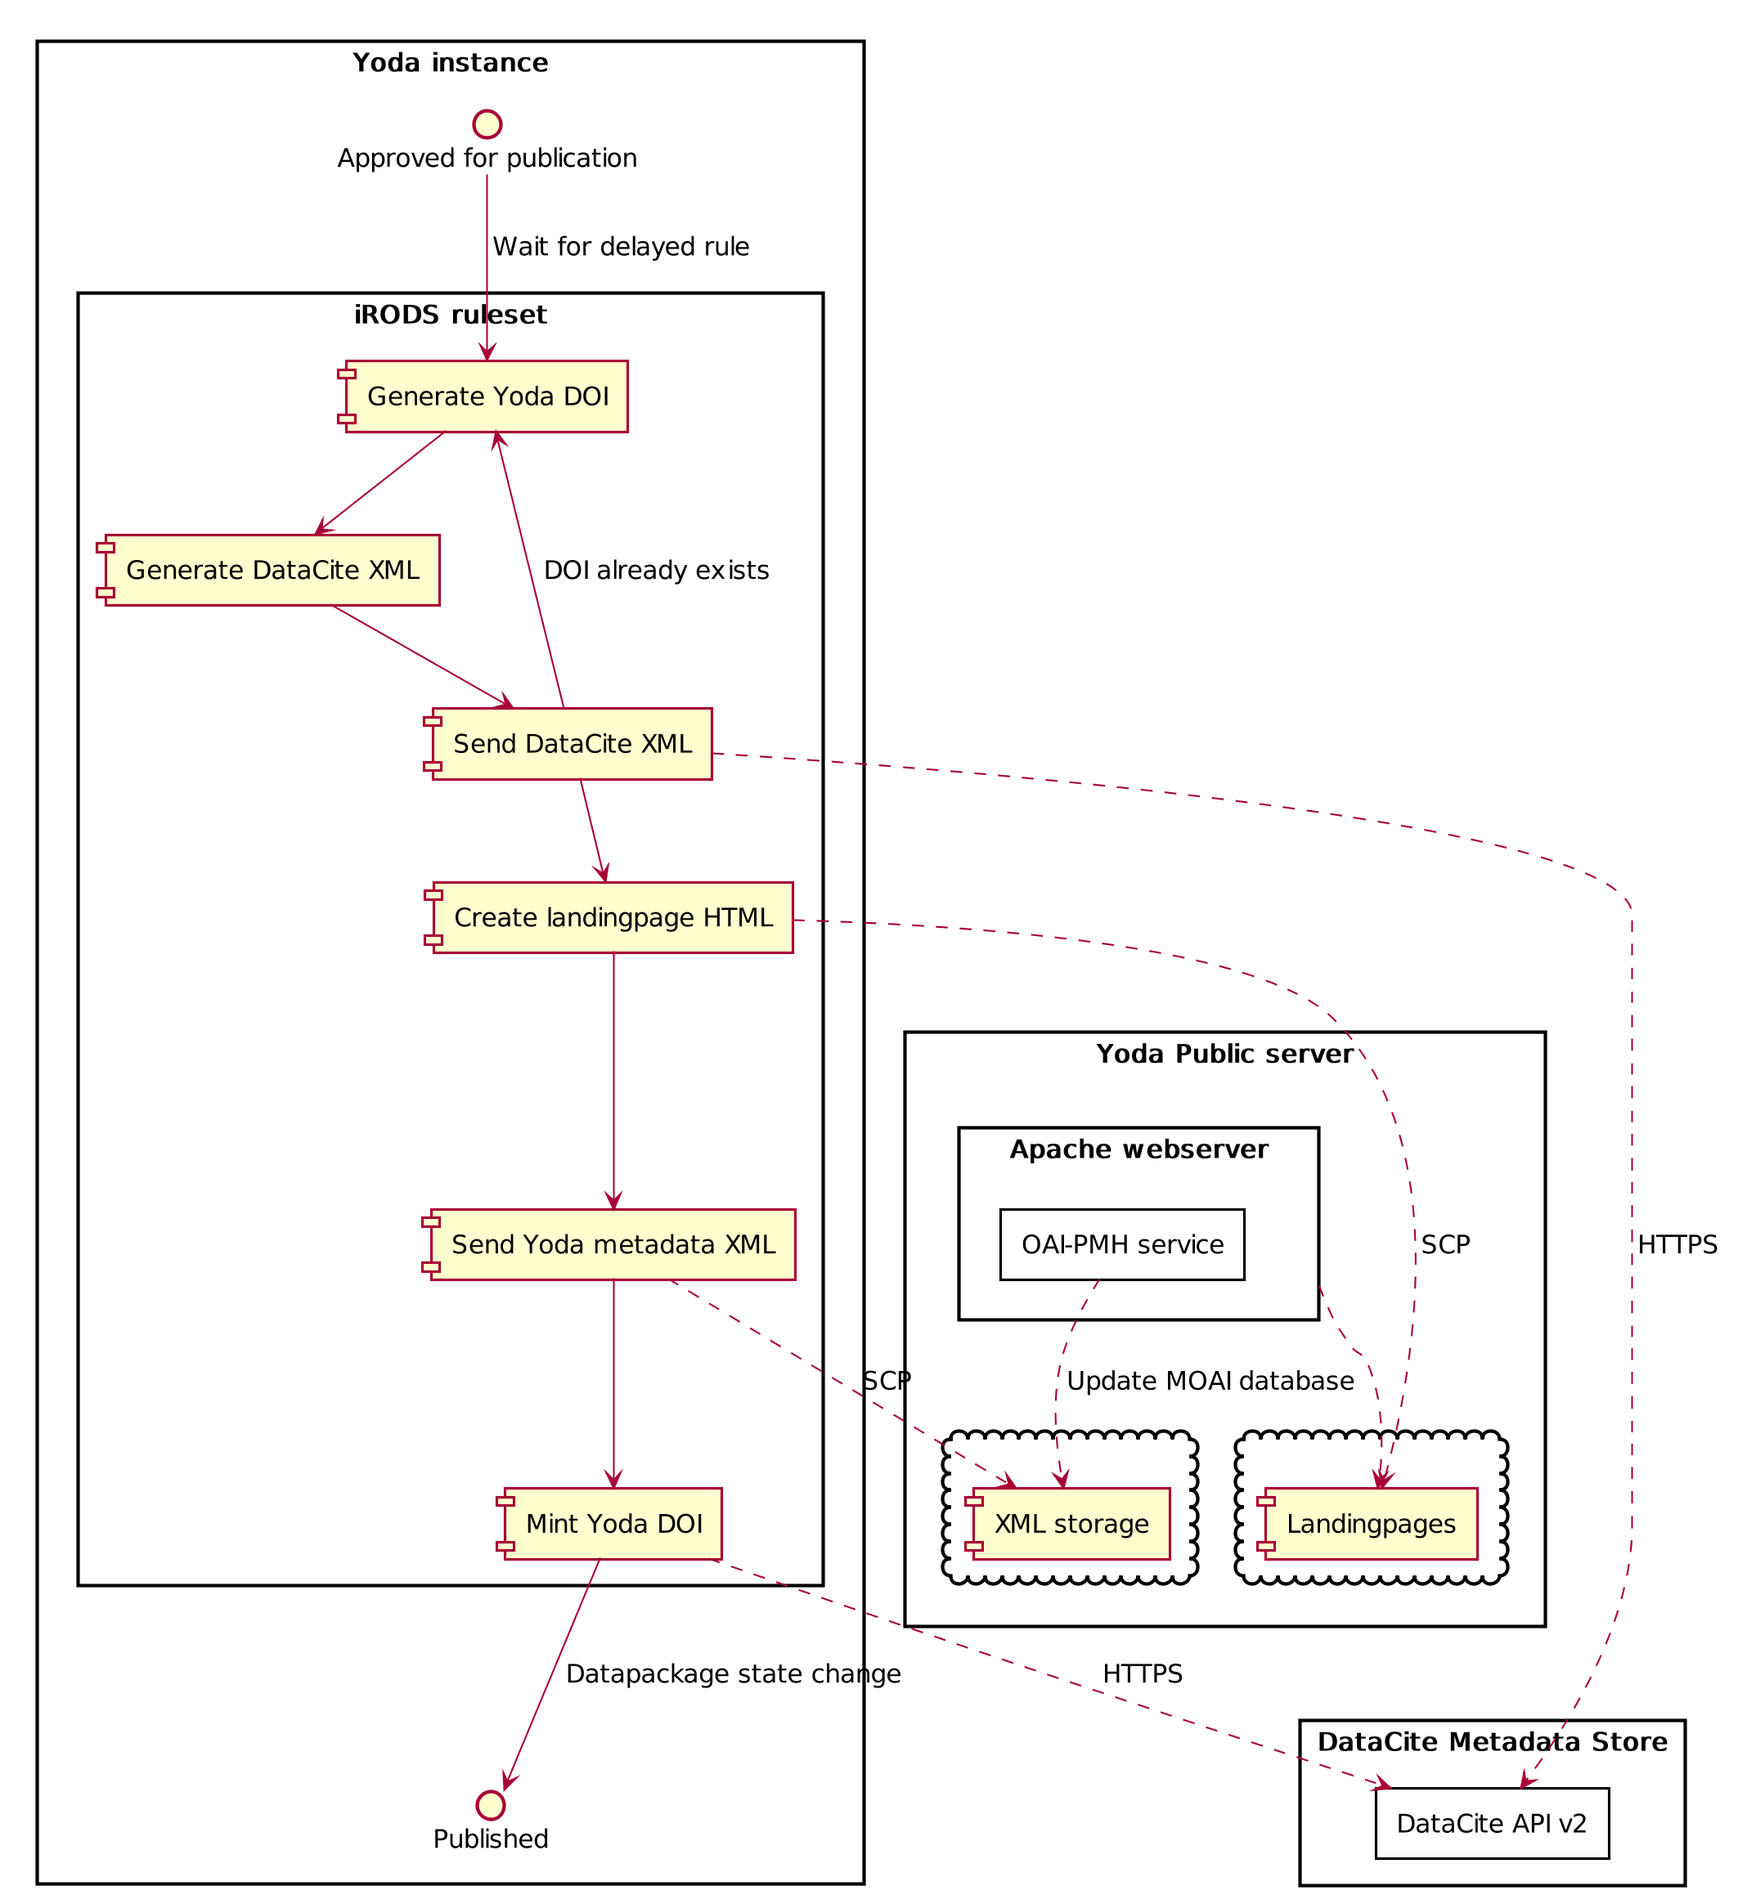
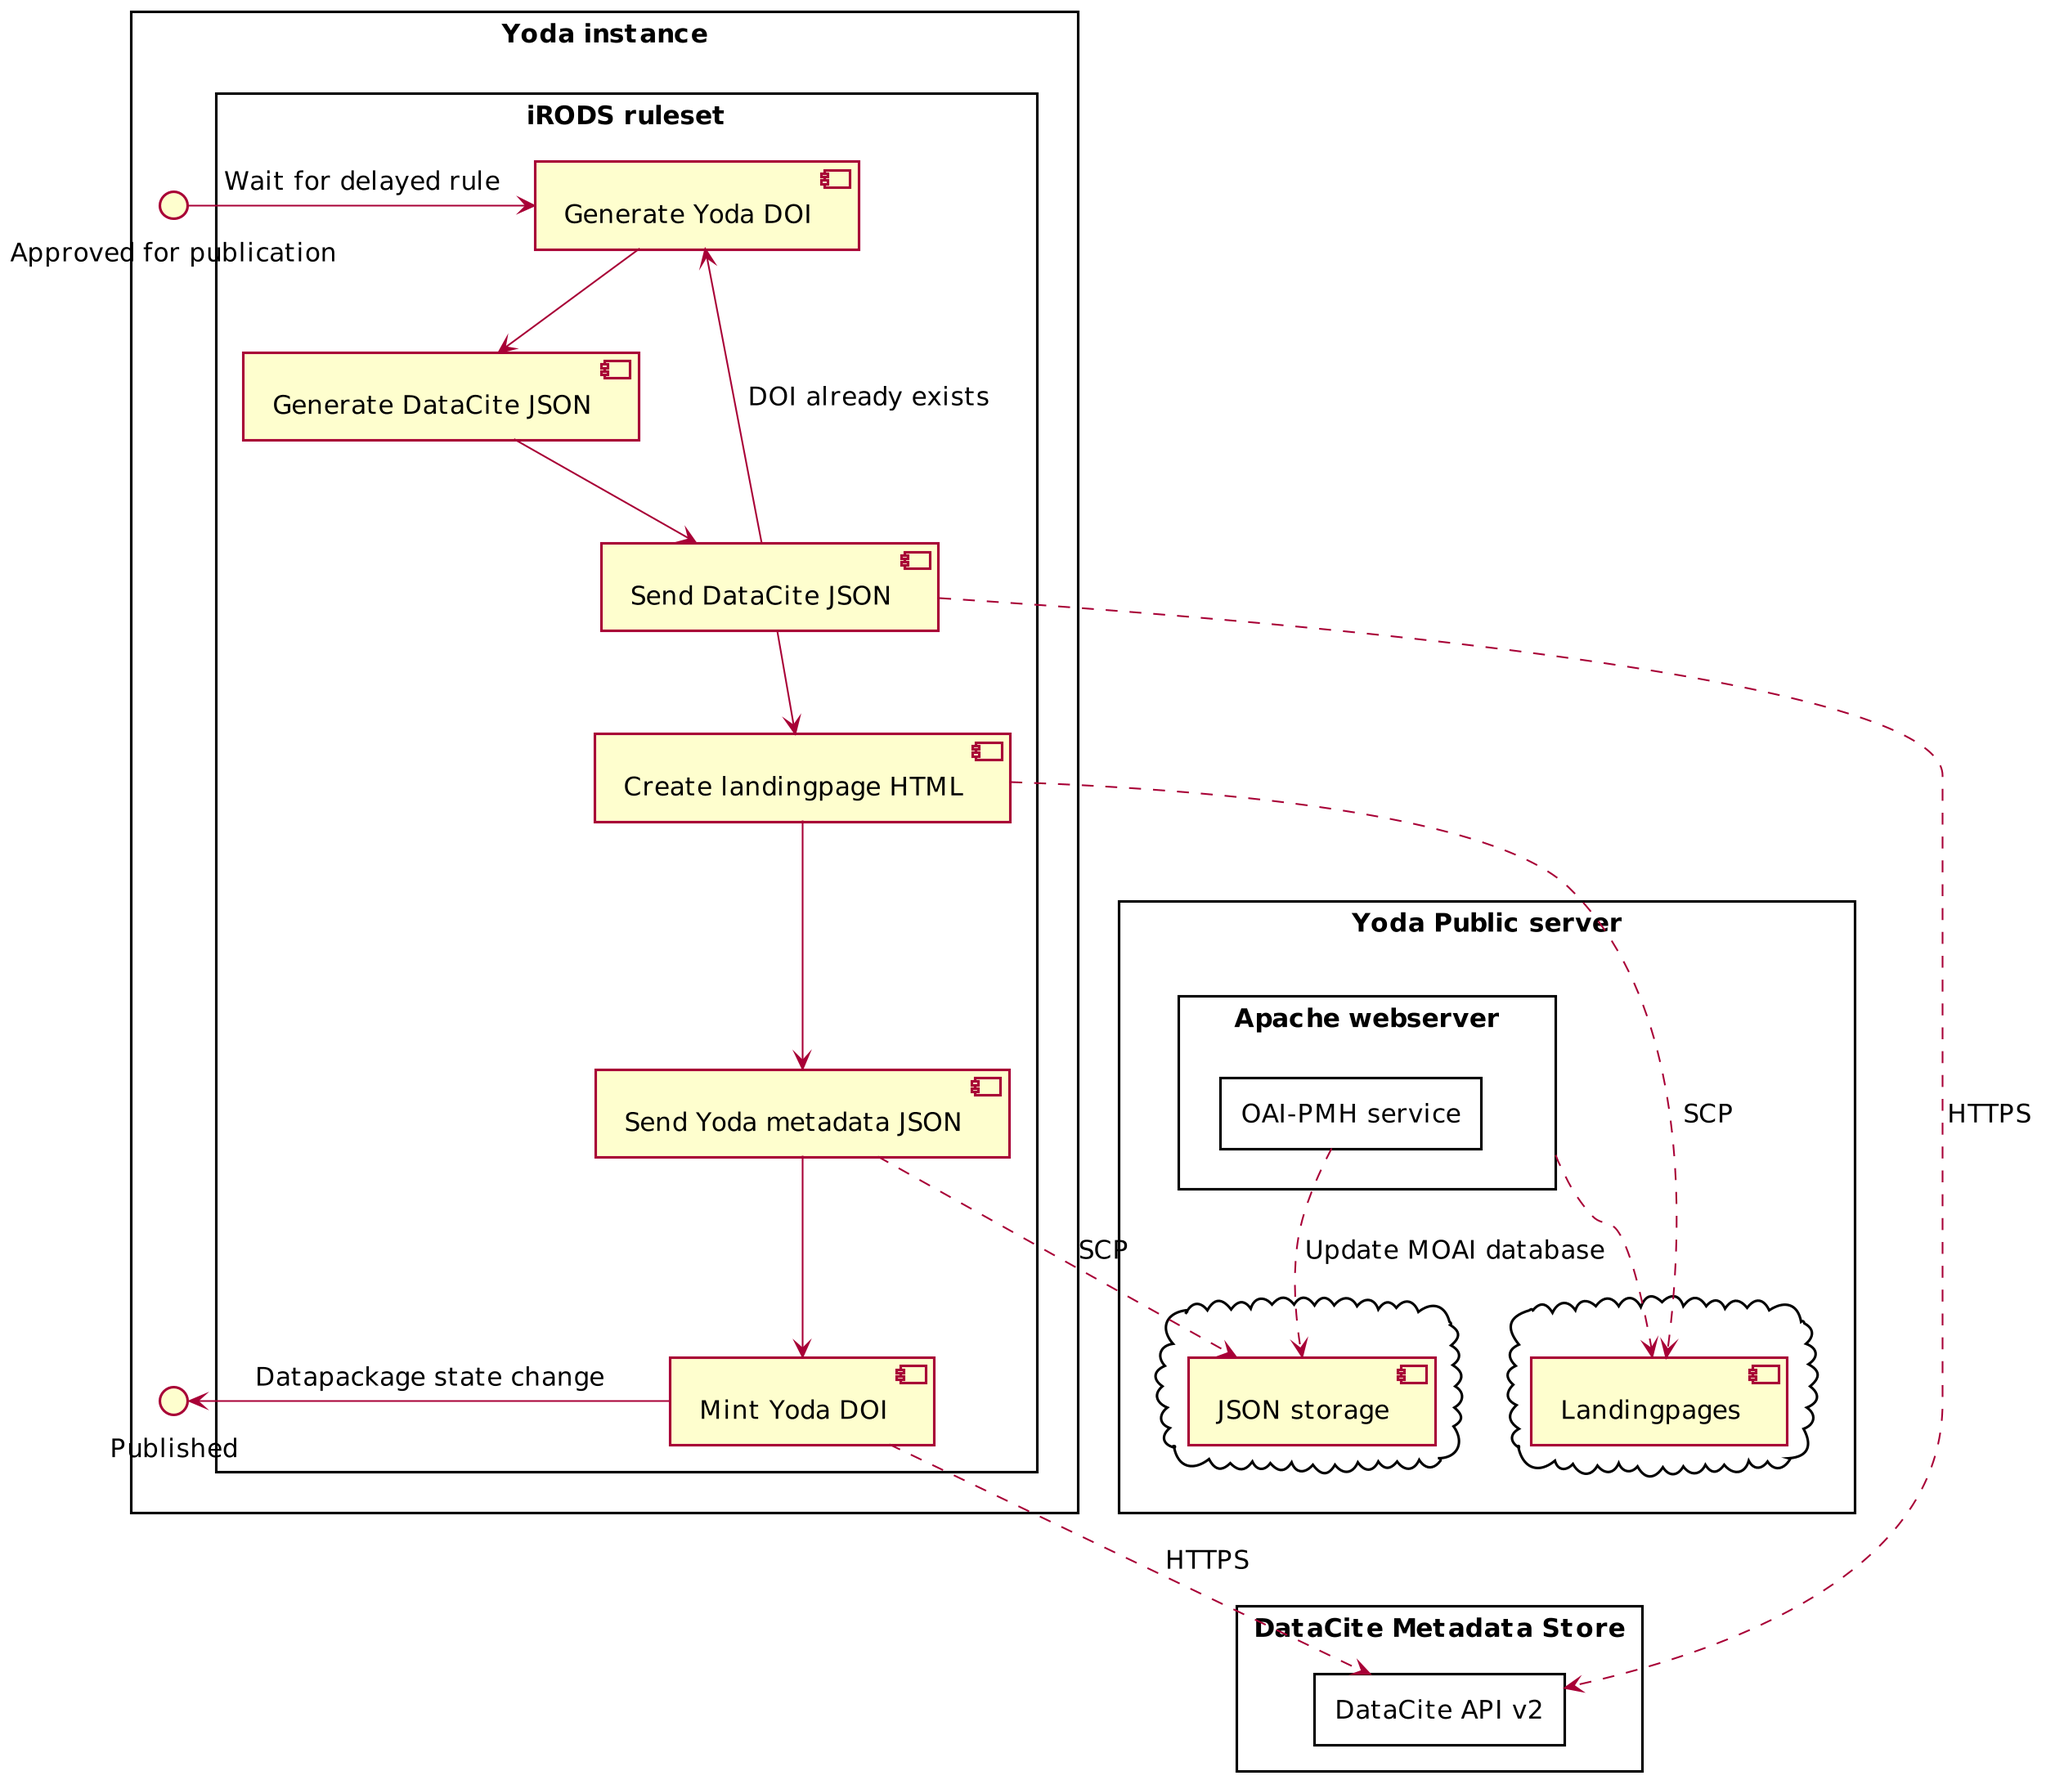
Added documentation and corresponding images

diff --git a/docs/design/overview/yoda-moai.md b/docs/design/overview/yoda-moai.md
@@ -12,15 +12,15 @@ MOAI offers harvesting functionality following the OAI-PMH standard with the fle
 Currently, Dublin Core and DataCite are implemented as a metadata prefix.
 
 ## Provisioning MOAI database
-When publishing datasets from within Yoda, the corresponding yoda-metadata.xml is put in a location where the Yoda MOAI service can read and process it.  
-Each 5 minutes (configurable) the indicated folder is scanned and newly published XML files are provisioned to the internal SQLite database.  
-The data is prepared in the database as such that it is able to provide output in XML form, on request of a harvester.
+When publishing datasets from within Yoda, the corresponding yoda-metadata.json is put in a location where the Yoda MOAI service can read and process it.  
+Each 5 minutes (configurable) the indicated folder is scanned and newly published JSON files are provisioned to the internal SQLite database.  
+The data is prepared in the database as such that it is able to provide output in JSON form, on request of a harvester.
 Any OAI-PMH harvester able to read the Dublin Core and DataCite format is able to harvest Yoda through the endpoint serviced by MOAI.
 
 ## Yoda MOAI Technical
 ### Provision from Yoda  
 *Python -> yoda.py*  
-The  script reads all yoda-metadata.xml files that have been published and are placed in a specific folder.
+The  script reads all yoda-metadata.json files that have been published and are placed in a specific folder.
 After processing it puts the found content into the Yoda MOAI SQLite database.
 
 *'Collection name' as metadata for a dataset*  
@@ -42,4 +42,4 @@ select * from records;
 
 ### Deliver metadata in datacite format to harvesters  
 *python -> datacite.py*  
-Prepares the output data in such a way that the application data of Yoda, originally held in yoda-metadata.xml files, can be outputted to an XML response with DataCite as a metadata prefix.
+Prepares the output data in such a way that the application data of Yoda, originally held in yoda-metadata.json files, can be outputted to an JSON response with DataCite as a metadata prefix.

diff --git a/docs/design/processes/publication-process.md b/docs/design/processes/publication-process.md
@@ -30,12 +30,12 @@ Temporary collection will be rods owned and located at ``UUSYSTEMCOLLECTION/publ
 **Step 3:** Determine Last Modification Time
 - Add to State
 
-**Step 4:** Generate Combi XML consisting of user and system metadata
-- Save CombiXML in temporary collection
-- Add path of CombiXML to state
+**Step 4:** Generate Combi JSON consisting of user and system metadata
+- Save CombiJSON in temporary collection
+- Add path of CombiJSON to state
 
-**Step 5:** Generate DataCite XML from Combi XML
-- Add DataCite XML to state
+**Step 5:** Generate DataCite JSON from Combi JSON
+- Add DataCite JSON to state
 - On failure:
 	- Flag package with unrecoverable failure
 	- Bail
@@ -48,7 +48,7 @@ Temporary collection will be rods owned and located at ``UUSYSTEMCOLLECTION/publ
 - If not in use:
 	- Add DOI to metadata of Vault Package
 
-**Step 7:** Send DataCite XML
+**Step 7:** Send DataCite JSON
 - Retrieve DataCite url and DataCite credentials from credentials store
 - API request to metadata endpoint with DataCite XML
 - put result in state
@@ -60,7 +60,7 @@ Temporary collection will be rods owned and located at ``UUSYSTEMCOLLECTION/publ
 	- Bail
 
 **Step 8:** Create Landing Page
-- Use CombiXml to generate landing page
+- Use CombiJSON to generate landing page
 - Add landing page path to state
 - On failure:
 	- Flag package with unrecoverable failure
@@ -100,11 +100,11 @@ Depublication is performed with the differences noted below.
 
 Step 2 of the publication process above is skipped. A DOI has already been generated.
 
-**Step 4:** Generate Combi XML consisting only the system metadata, as the user metadata is being removed.
+**Step 4:** Generate Combi JSON consisting only the system metadata, as the user metadata is being removed.
 
 Step 5 and 6 of the publication process above are skipped.
 
-**Step 7:** Remove DataCite metadata
+**Step 7:** Remove (i.e. hide) DataCite metadata
 - Retrieve DataCite url and DataCite credentials from credentials store
 - API request to remove metadata from Datacite
 - put result in state

diff --git a/docs/design/metadata/metadata-mappings.md b/docs/design/metadata/metadata-mappings.md
@@ -12,8 +12,8 @@ in case of metadata schema changes. The template can be found in
 `/etc/irods/irods-ruleset-uu/templates/landingpage.html.j2`. The Ansible playbook activates this template
 by uploading it to the `/zone/yoda/templates/` collection.
 
-### XML generator for DataCite
-For DataCite a XML conforming to the DataCite Schema v4 is generated in Python.
+### JSON generator for DataCite
+For DataCite a JSON-file is generated conform the DataCite Schema v4.  
 This generator can be found in `/etc/irods/yoda-ruleset/json_datacite41.py`.
 
 ### OAI-PMH importer

diff --git a/docs/administration/configuring-yoda.md b/docs/administration/configuring-yoda.md
@@ -201,6 +201,7 @@ datacite_username            | DataCite username
 datacite_password            | DataCite password
 datacite_prefix              | DataCite DOI prefix
 datacite_server              | DataCite server URI
+datacite_api_server          | DataCite REST API URI
 
 ### EPIC PID Configuration
 
